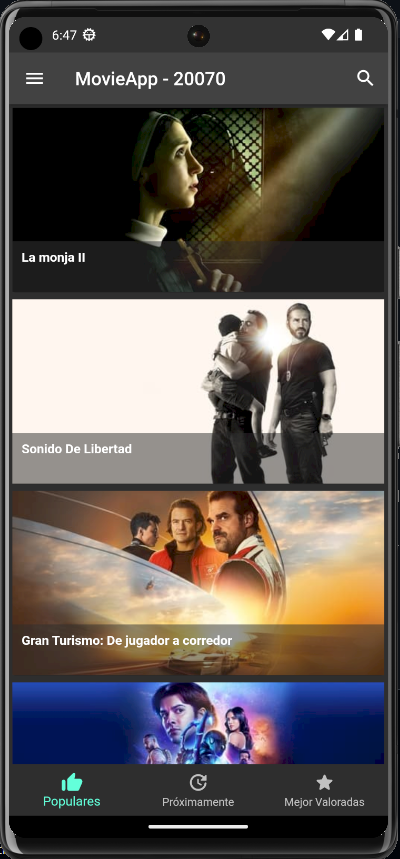
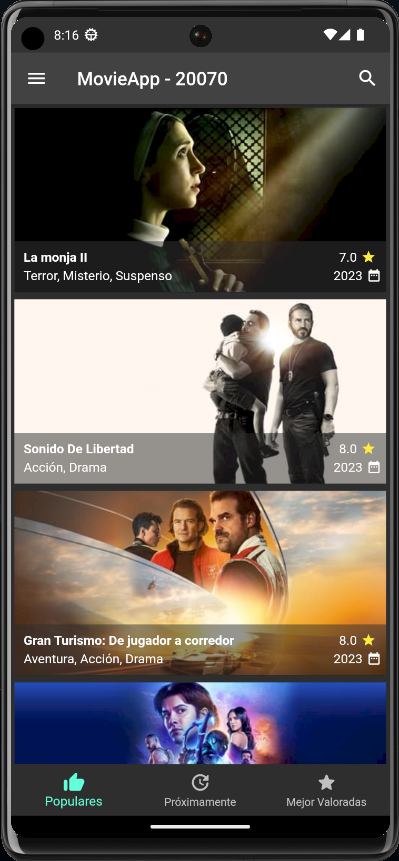
UPDATE3

diff --git a/lib/media_list_item.dart b/lib/media_list_item.dart
@@ -36,7 +36,7 @@ class MediaListItem extends StatelessWidget {
                 ),
                 Positioned(
                   left: 10.0,
-                  bottom: 30.0,
+                  bottom: 10.0,
                   child: Column(
                     crossAxisAlignment: CrossAxisAlignment.start,
                     children: <Widget>[
@@ -45,11 +45,52 @@ class MediaListItem extends StatelessWidget {
                           media.title,
                           style: TextStyle(
                               fontWeight: FontWeight.bold, color: Colors.white),
+                              softWrap: false,
+                              overflow: TextOverflow.ellipsis,
+
                         ),
+                      ),
+                      Container(
+                        width: 300.0,
+                        padding: const EdgeInsets.only(top: 4.0),
+                        child: new Text(
+                          media.getGenres(),
+                          style: new TextStyle(color:Colors.white),
+                          maxLines:1,
+                          overflow: TextOverflow.ellipsis,
+
+                        )
                       )
                     ],
                   ),
-                )
+                ),
+                new Positioned(
+                  right: 5.0,
+                  bottom: 10.0,
+                  child: new Column(
+                    children: <Widget>[
+                    new Row(
+                    children: <Widget>[
+                      new Text(media.voteAverage.toString()),
+                      new Container(width: 4.0,),
+                      new Icon(
+                        Icons.star,
+                        color: Colors.yellow,
+                        size: 16,
+                      )
+                      ]
+                      ),
+                      new Container(height:4.0,),
+                      new Row(
+                        children: <Widget> [
+                          new Text(media.getReleaseYear().toString()),
+                          new Container(width: 4.0,),
+                          new Icon(Icons.date_range, color: Colors.white,size: 16.0,)
+                        ],
+                        )
+                  ],
+                  )
+                  )
               ],
             ),
           )

diff --git a/lib/common/Util.dart b/lib/common/Util.dart
@@ -2,3 +2,42 @@ final String _imageUrlMedium = "https://image.tmdb.org/t/p/w300";
 final String _imageUrlLarge = "https://image.tmdb.org/t/p/w500";
 String getMediumPictureUrl(String path) => _imageUrlMedium + path;
 String getLargePictureUrl(String path) => _imageUrlLarge + path;
+
+Map<int, String> _genreMap = {
+  28: 'Acción',
+  12: 'Aventura',
+  16: 'Animación',
+  35: 'Comedia',
+  80: 'Crimen',
+  99: 'Documental',
+  18: 'Drama',
+  10751: 'Familia',
+  14: 'Fantasía',
+  36: 'Historia',
+  27: 'Terror',
+  10402: 'Música',
+  9648: 'Misterio',
+  10749: 'Romance',
+  878: 'Ciencia ficción',
+  10770: 'película de la televisión',
+  53: 'Suspenso',
+  10752: 'Guerra',
+  37: 'Oeste',
+  10759: 'Acción & Aventura',
+  10762: "Infantil",
+  10763: 'Noticias',
+  10764: 'Realities',
+  10765: 'Sci-Fi & Fantasia',
+  10766: 'Serial',
+  10767: 'Conversación',
+  10768: 'Guerra & Politica',
+};
+
+List<String?> genresToList(List<dynamic> genreIds)=>
+genreIds.map((id)=> _genreMap[id]).toList();
+
+String getGenreValues(List<dynamic> genreIds){
+  StringBuffer buffer = new StringBuffer();
+  buffer.writeAll(genresToList(genreIds),", ");
+  return buffer.toString();
+}

diff --git a/lib/model/Media.dart b/lib/model/Media.dart
@@ -13,6 +13,16 @@ class Media{
 
 String getPosterUrl() => getMediumPictureUrl(posterPath);
 String getBackDropUrl() => getLargePictureUrl(backdropPath);
+String getGenres() => getGenreValues(genreIds);
+int getReleaseYear(){
+  
+  if(releaseDate == null || releaseDate == ""){
+  return 0;
+  }
+  return DateTime.parse(releaseDate).year;
+  
+}
+
   factory Media(Map jsonMap){
     try{
       return new Media.deserialize(jsonMap);
